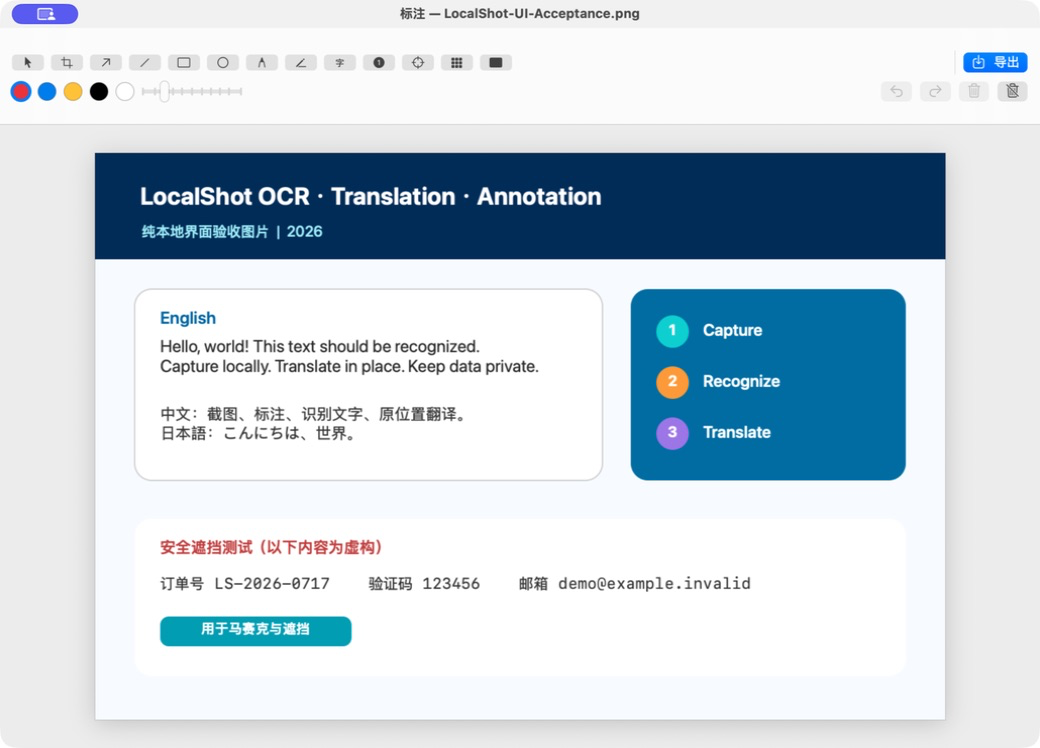
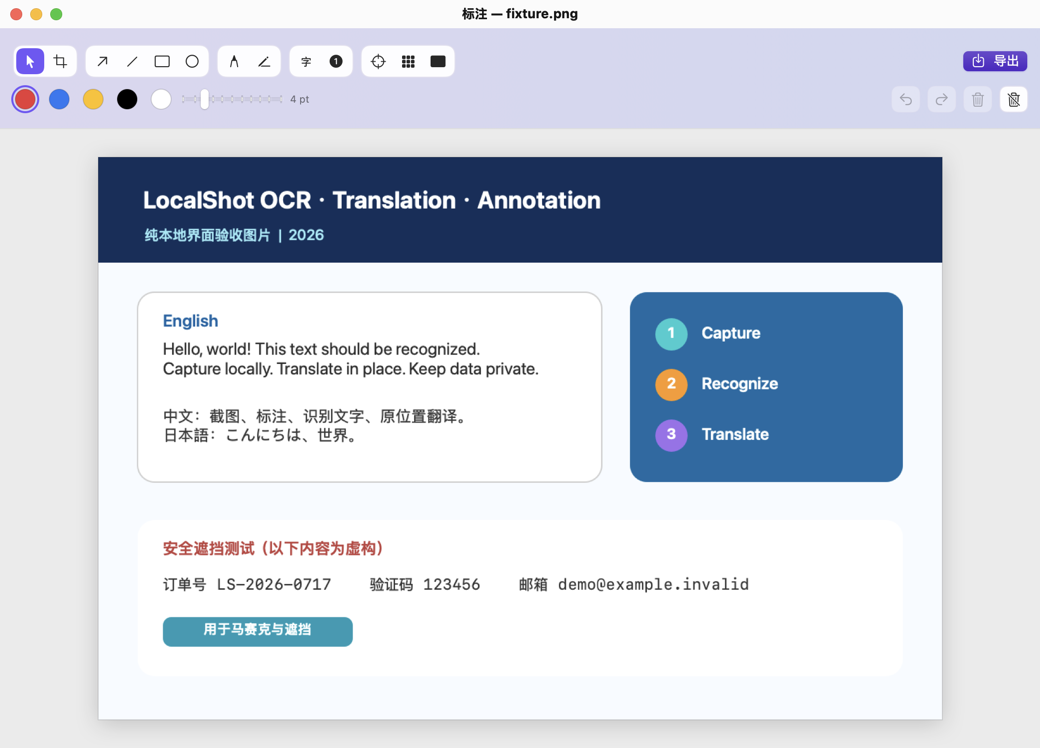
发布 0.4.2（Build 22）
- 版本号升级为 0.4.2（Build 22）
- 安装说明改为新版安装包与校验文件名，补充保留期限默认值说明
- README 展示图更新为新版标注编辑器

Changed region(s): [[0.0, 0.0, 1.0, 0.6457], [0.1538, 0.7072, 0.4615, 0.8917], [0.4923, 0.7687, 0.7385, 0.7995]]

diff --git a/INSTALL.md b/INSTALL.md
@@ -7,7 +7,7 @@
 
 ## 下载与安装
 
-1. 从 [LocalShot Releases](https://github.com/tpxcer/LocalShot/releases/latest) 下载 `LocalShot-0.4.1-build21-open-source-universal2-arm64-x86_64.dmg`。
+1. 从 [LocalShot Releases](https://github.com/tpxcer/LocalShot/releases/latest) 下载 `LocalShot-0.4.2-build22-open-source-universal2-arm64-x86_64.dmg`。
 2. 双击打开 DMG，将 `LocalShot.app` 拖入“应用程序”文件夹。
 3. 在“应用程序”中打开 LocalShot。全部功能直接可用，无需机器码或授权码。
 
@@ -23,7 +23,7 @@
 
 0.4.0（Build 20）及以前版本使用的旧下载仓库已经移除，不能再从旧软件内检查更新。请手动下载安装一次 Build 21 或更新版本；之后软件会从本开源仓库检查和下载后续更新。
 
-升级前请备份重要截图，或在旧版设置中将“自动清理”改为“永久保留”。截图、录屏、历史和设置在应用包之外，但启动新版仍会执行原有保留策略，过期截图可能被永久删除。
+升级前请备份重要截图，或在旧版设置中将“自动清理”改为“永久保留”。截图、录屏、历史和设置在应用包之外，如果旧版设置过自动清理期限，启动新版仍会按该期限执行，过期截图可能被永久删除；从未设置过的，Build 22 起默认永久保留。
 
 Build 17 起新录屏与截图共用保存目录；旧版 `Application Support/LocalShot/Recordings` 内的视频不会自动移动或删除。Build 18 起“最近保存”同时显示截图和录屏，“清空记录”不勾选删除文件时只隐藏记录。
 
@@ -39,7 +39,7 @@ Build 17 起新录屏与截图共用保存目录；旧版 `Application Support/L
 将 DMG 和同一 Release 的校验文件放到同一目录，在终端运行：
 
 ```bash
-shasum -a 256 -c SHA256SUMS-v0.4.1-build21-public.txt
+shasum -a 256 -c SHA256SUMS-v0.4.2-build22-public.txt
 ```
 
 看到 `OK` 表示文件与发布版本一致。对应源码在本仓库的同名版本标签中。

diff --git a/README.md b/README.md
@@ -6,9 +6,9 @@ LocalShot 是一款开源、纯本地的 macOS 截图与录屏工具，支持 Ap
 
 [下载安装包](https://github.com/tpxcer/LocalShot/releases/latest) · [安装说明](INSTALL.md) · [功能展示](#软件截图) · [反馈问题](https://github.com/tpxcer/LocalShot/issues)
 
-当前版本：**0.4.1（Build 21）**。源码、安装包、功能展示和后续更新统一在本仓库维护。
+当前版本：**0.4.2（Build 22）**。源码、安装包、功能展示和后续更新统一在本仓库维护。
 
-> 0.4.0（Build 20）及以前版本使用旧更新源，需要手动下载安装一次 Build 21 或更新版本，之后才能继续在软件内检查更新。升级前请备份重要截图，或将旧版“自动清理”改为“永久保留”；启动新版仍会按原保留期限清理过期截图。
+> 0.4.0（Build 20）及以前版本使用旧更新源，需要手动下载安装一次 Build 21 或更新版本，之后才能继续在软件内检查更新。升级前请备份重要截图，或将旧版“自动清理”改为“永久保留”；如果旧版设置过自动清理期限，启动新版仍会按该期限清理过期截图；从未设置过的，Build 22 起默认永久保留。
 
 ## 系统要求
 
@@ -49,7 +49,7 @@ LocalShot 是一款开源、纯本地的 macOS 截图与录屏工具，支持 Ap
 
 ## 软件截图
 
-以下图片来自项目自带的虚构验收页面，不包含私人截图。Build 21 只迁移发布与更新入口，截图和录屏界面不变。
+以下图片来自项目自带的虚构验收页面，不包含私人截图。Build 22 起设置、截图后快速访问、标注编辑器、OCR、翻译、美化和历史窗口改用淡紫配色；截图选区和录屏界面不变。
 
 ### 快捷截图与标注
 

diff --git a/UI_ACCEPTANCE.md b/UI_ACCEPTANCE.md
@@ -20,7 +20,7 @@
 
 - [ ] 菜单栏图标存在，菜单能打开和关闭。
 - [x] 设置窗口能打开，所有 Section 可滚动访问，无控件被遮挡。
-- [ ] 安装版显示当前 `Support/Info.plist` 版本（目前为 `0.4.1 (21)`）、自动检查开关、手动检查按钮和 GitHub 更新状态；因 ad-hoc 二进制更新，屏幕捕获权限可能需要重新允许后才能做生产截图与录屏复核。
+- [ ] 安装版显示当前 `Support/Info.plist` 版本（目前为 `0.4.2 (22)`）、自动检查开关、手动检查按钮和 GitHub 更新状态；因 ad-hoc 二进制更新，屏幕捕获权限可能需要重新允许后才能做生产截图与录屏复核。
 - [x] 隐私说明按钮打开应用包内本地 `PRIVACY.md`，不访问网络。
 - [x] 快捷键录制、Escape 取消、Delete 清除和恢复默认可操作。
 - [ ] 自定义或禁用快捷键后，菜单栏实时显示新组合键或隐藏已禁用组合键，不再显示旧默认值。
